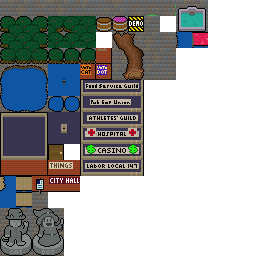
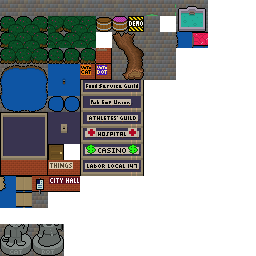
floating head for fractia statue

Changed region(s): [[0.0, 0.8125, 0.25, 0.875]]

diff --git a/src/game/sprite/sprite_flagindicator.c b/src/game/sprite/sprite_flagindicator.c
@@ -1,0 +1,42 @@
+/* sprite_flagindicator.c
+ * Tile changes according to a flag.
+ */
+ 
+#include "game/bellacopia.h"
+
+struct sprite_flagindicator {
+  struct sprite hdr;
+  int fldid;
+  int delta;
+  uint8_t tileid0;
+  int store_listener;
+};
+
+#define SPRITE ((struct sprite_flagindicator*)sprite)
+
+static void _flagindicator_del(struct sprite *sprite) {
+  store_unlisten(SPRITE->store_listener);
+}
+
+static void flagindicator_cb_store(char type,int id,int value,void *userdata) {
+  struct sprite *sprite=userdata;
+  if ((type=='f')&&(id==SPRITE->fldid)) {
+    sprite->tileid=SPRITE->tileid0+(value?SPRITE->delta:0);
+  }
+}
+
+static int _flagindicator_init(struct sprite *sprite) {
+  SPRITE->tileid0=sprite->tileid;
+  SPRITE->fldid=(sprite->arg[0]<<8)|sprite->arg[1];
+  SPRITE->delta=sprite->arg[2];
+  SPRITE->store_listener=store_listen('f',flagindicator_cb_store,sprite);
+  flagindicator_cb_store('f',SPRITE->fldid,store_get_fld(SPRITE->fldid),sprite);
+  return 0;
+}
+
+const struct sprite_type sprite_type_flagindicator={
+  .name="flagindicator",
+  .objlen=sizeof(struct sprite_flagindicator),
+  .del=_flagindicator_del,
+  .init=_flagindicator_init,
+};

diff --git a/src/game/shared_symbols.h b/src/game/shared_symbols.h
@@ -381,6 +381,7 @@
 #define NS_sprtype_ornament         54 /* (u32)0 */
 #define NS_sprtype_figureeight      55 /* (u8:orient_hv)01 (u24)0 */
 #define NS_sprtype_eightspawn       56 /* (u32)0 */
+#define NS_sprtype_flagindicator    57 /* (u16:fld)0 (u8:delta)1 (u8)0 */
 #define FOR_EACH_sprtype \
   _(dummy) \
   _(hero) \
@@ -427,7 +428,8 @@
   _(casneon) \
   _(ornament) \
   _(figureeight) \
-  _(eightspawn)
+  _(eightspawn) \
+  _(flagindicator)
   
 #define NS_battle_fishing 1
 #define NS_battle_chopping 2

diff --git a/README.md b/README.md
@@ -78,7 +78,7 @@ Requires [Egg](https://github.com/aksommerville/egg2) to build.
 - Fill out maps.
 - [ ] Fractia
 - - [ ] Outer. BoE / City Hall signage, statue, litter...
-- - [ ] Make the Cat or Dot statue's head passable and occluditory, like statuemaze.
+- - [x] Make the Cat or Dot statue's head passable and occluditory, like statuemaze.
 - - [ ] Thing Store
 - - [ ] Labor Union
 - - [ ] Vacant house next to Labor Union
